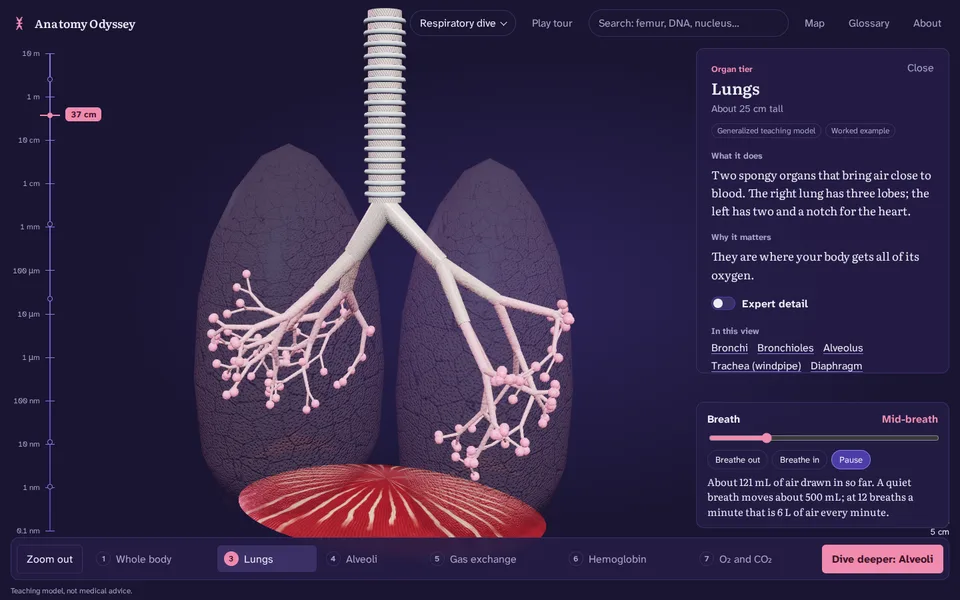
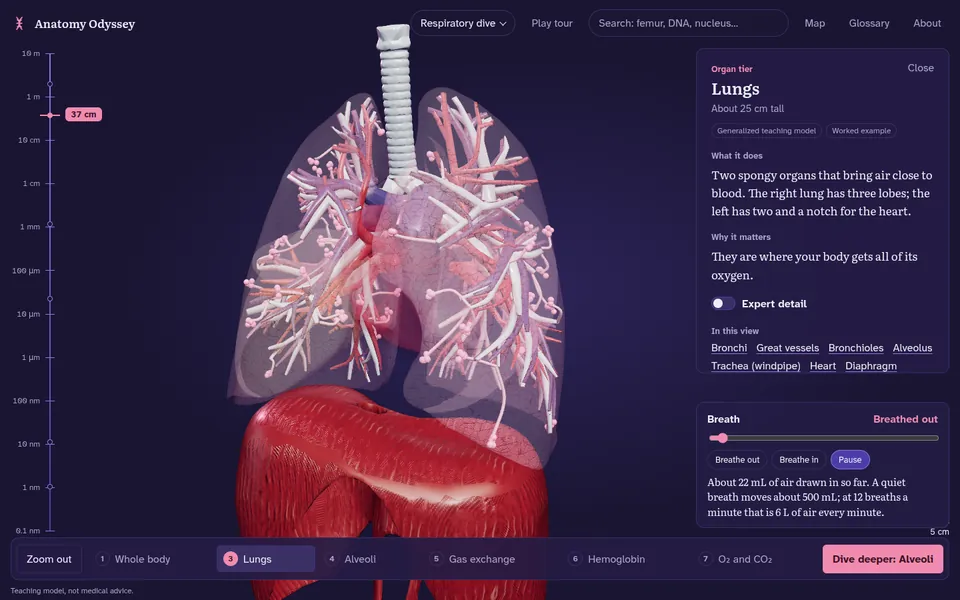
Show the progress in the README: animations, measured organs and a tracker
A new Progress section near the top of the README: animations of the
beating heart, zooming into the measured body, a meal through the
digestive tract and urine through the urinary tract; stills of the
measured body and every real organ close-up; and a progress tracker of
each dive's state with an overall bar. The skeletal, respiratory and
nervous dive animations and the organ screenshots are re-recorded from
the current build. The recording tools gain --step, --live, --zoom,
--clean, --crop and --browser.

diff --git a/tools/record-hero.py b/tools/record-hero.py
@@ -4,13 +4,17 @@
     python3 tools/record-hero.py                          # skeletal dive → docs/media/hero-dive.gif
     python3 tools/record-hero.py --dive circulatory --out docs/media/circulatory-dive.gif
     python3 tools/record-hero.py --dive inflammation --sweep --out docs/media/inflammation.gif
+    python3 tools/record-hero.py --dive circulatory --step heart --live 5 --out docs/media/heartbeat.gif
 
 A dive recording clicks "Dive deeper" through every step. With --sweep, the
-recording stays on the first step and sweeps the scene's control from its
-minimum to its maximum (used for the inflammation module).
+recording stays on the first step (or --step) and sweeps the scene's control
+from its minimum to its maximum (used for the inflammation module and the
+digestive and urinary tracts). With --live SECONDS, it records that step as it
+animates by itself (the heartbeat, blood flow), at the real speed.
 """
 import argparse
 import io
+import time
 
 from PIL import Image
 from playwright.sync_api import sync_playwright
@@ -20,27 +24,63 @@ ap.add_argument("--url", default="http://localhost:4173/")
 ap.add_argument("--dive", default="skeletal")
 ap.add_argument("--out", default="docs/media/hero-dive.gif")
 ap.add_argument("--sweep", action="store_true")
+ap.add_argument("--step", default="", help="start on this step instead of the dive's first")
+ap.add_argument("--live", type=float, default=0, help="record this many seconds of the step animating by itself")
+ap.add_argument("--colors", type=int, default=160)
+ap.add_argument("--clean", action="store_true", help="hide the scene's control box too, leaving just the view")
+ap.add_argument("--zoom", default="", help="zoom in first, at x,y (fractions of the view), by this many wheel clicks: x,y,clicks")
+ap.add_argument("--crop", default="", help="keep only this part of the view: left,top,right,bottom as fractions")
 ap.add_argument("--width", type=int, default=640)
+ap.add_argument("--browser", default=None, help="path to a Chromium executable, if Playwright's own is not installed")
 args = ap.parse_args()
 
 W, H = 1200, 750
-size = (args.width, round(args.width * H / W))
+box = [float(x) for x in args.crop.split(",")] if args.crop else [0, 0, 1, 1]
+box = (round(box[0] * W), round(box[1] * H), round(box[2] * W), round(box[3] * H))
+size = (args.width, round(args.width * (box[3] - box[1]) / (box[2] - box[0])))
 frames = []
+duration = 110  # ms a frame
 
 with sync_playwright() as p:
-    browser = p.chromium.launch(args=["--use-angle=swiftshader", "--enable-unsafe-swiftshader"])
+    browser = p.chromium.launch(executable_path=args.browser, args=["--use-angle=swiftshader", "--enable-unsafe-swiftshader"])
     page = browser.new_page(viewport={"width": W, "height": H}, bypass_csp=True)
-    page.goto(f"{args.url}?dive={args.dive}")
+    page.goto(f"{args.url}?dive={args.dive}" + (f"&step={args.step}" if args.step else ""))
     page.wait_for_function("document.getElementById('app').dataset.ready === 'true'")
     page.evaluate("document.getElementById('intro').hidden = true")
     page.wait_for_timeout(1200)
 
+    zoom_clicks = 0
+    if args.zoom:
+        zx, zy, clicks = (float(v) for v in args.zoom.split(","))
+        page.mouse.move(zx * W, zy * H)
+        zoom_clicks = int(clicks)
+    if args.zoom and not args.live:  # with --live, the zoom is recorded as it happens
+        for _ in range(zoom_clicks):
+            page.mouse.wheel(0, -240)
+            page.wait_for_timeout(250)
+        page.wait_for_timeout(2500)
+    if args.clean:
+        page.add_style_tag(content="#scene-controls { visibility: hidden !important; }")
+
     def grab(n=1):
         for _ in range(n):
-            img = Image.open(io.BytesIO(page.screenshot())).convert("RGB").resize(size, Image.LANCZOS)
+            img = Image.open(io.BytesIO(page.screenshot())).convert("RGB").crop(box).resize(size, Image.LANCZOS)
             frames.append(img)
 
-    if args.sweep:
+    if args.live:
+        page.evaluate("document.getElementById('panel').hidden = true")
+        page.wait_for_timeout(1500)
+        # Software rendering is far slower than real time, so the page's clock is
+        # stopped and stepped one frame at a time: the GIF plays at the real speed.
+        page.clock.install()
+        page.clock.pause_at(time.time() * 1000 + 1000)
+        count = round(args.live * 1000 / duration)
+        for i in range(count):
+            if zoom_clicks and i % max(1, round(0.6 * count / zoom_clicks)) == 0 and i < 0.7 * count:
+                page.mouse.wheel(0, -240)
+            page.clock.run_for(duration)
+            grab()
+    elif args.sweep:
         page.evaluate("document.getElementById('panel').hidden = true")
         steps = 44
         for i in range(steps + 1):
@@ -65,6 +105,6 @@ with sync_playwright() as p:
     browser.close()
 
 # Each frame gets its own adaptive palette so small colored details survive.
-quantized = [f.quantize(colors=160, method=Image.Quantize.MEDIANCUT, dither=Image.Dither.NONE) for f in frames]
-quantized[0].save(args.out, save_all=True, append_images=quantized[1:], duration=110, loop=0, optimize=False)
+quantized = [f.quantize(colors=args.colors, method=Image.Quantize.MEDIANCUT, dither=Image.Dither.NONE) for f in frames]
+quantized[0].save(args.out, save_all=True, append_images=quantized[1:], duration=duration, loop=0, optimize=False)
 print(f"{len(frames)} frames written to {args.out}")

diff --git a/tools/screenshots.py b/tools/screenshots.py
@@ -36,8 +36,8 @@ STEPS = [
     ("t-cells", "antigen-presentation", ""), ("t-cells", "killer-t-cell", ""), ("t-cells", "tcr-mhc", ""),
     ("t-cells", "amino-acids", "&trip=1"),
     ("reflex", "reflex-arc", ""), ("reflex", "spinal-cord", ""), ("reflex", "neuromuscular-junction", ""), ("reflex", "acetylcholine", ""),
-    ("digestive", "body", ""), ("digestive", "small-intestine", ""), ("digestive", "villi", ""), ("digestive", "enterocyte", ""), ("digestive", "glucose", ""),
-    ("urinary", "body", ""), ("urinary", "kidney", ""), ("urinary", "nephron", ""), ("urinary", "filtration-barrier", ""), ("urinary", "urea", ""),
+    ("digestive", "body", ""), ("digestive", "digestive-tract", ""), ("digestive", "small-intestine", ""), ("digestive", "villi", ""), ("digestive", "enterocyte", ""), ("digestive", "glucose", ""),
+    ("urinary", "body", ""), ("urinary", "urinary-tract", ""), ("urinary", "kidney", ""), ("urinary", "nephron", ""), ("urinary", "filtration-barrier", ""), ("urinary", "urea", ""),
     ("endocrine", "body", ""), ("endocrine", "thyroid", ""), ("endocrine", "thyroid-follicles", ""), ("endocrine", "follicle-cell", ""), ("endocrine", "thyroxine", ""),
     ("skin", "body", ""), ("skin", "skin-block", ""), ("skin", "epidermis", ""), ("skin", "sun-and-skin", ""), ("skin", "vitamin-d3", ""),
     ("eye", "body", ""), ("eye", "eye", ""), ("eye", "retina", ""), ("eye", "phototransduction", ""), ("eye", "retinal", ""),
@@ -56,13 +56,14 @@ def main():
     ap.add_argument("--height", type=int, default=900)
     ap.add_argument("--mobile", action="store_true", help="also capture a 390x844 phone view")
     ap.add_argument("--only", default="", help="only capture dives or steps whose id contains this text")
+    ap.add_argument("--browser", default=None, help="path to a Chromium executable, if Playwright's own is not installed")
     args = ap.parse_args()
     out = Path(args.out)
     out.mkdir(parents=True, exist_ok=True)
     errors = []
 
     with sync_playwright() as p:
-        browser = p.chromium.launch(args=["--use-angle=swiftshader", "--enable-unsafe-swiftshader", "--ignore-gpu-blocklist"])
+        browser = p.chromium.launch(executable_path=args.browser, args=["--use-angle=swiftshader", "--enable-unsafe-swiftshader", "--ignore-gpu-blocklist"])
         sizes = [("desktop", args.width, args.height)]
         if args.mobile:
             sizes.append(("phone", 390, 844))

diff --git a/README.md b/README.md
@@ -37,6 +37,75 @@ No accounts, no tracking. Two ways to use it:
 | **Web** | [normansrule.github.io/anatomy-odyssey](https://normansrule.github.io/anatomy-odyssey/) | Any current browser, phones included. Nothing to install. |
 | **Desktop** | [Latest release](https://github.com/Normansrule/anatomy-odyssey/releases/latest) | Windows `.exe`/`.msi`, macOS `.dmg`, Linux `.AppImage`/`.deb`. Not code-signed yet, so the first launch shows a warning. |
 
+## Progress
+
+Version 0.20 (in progress) swaps the drawn body for one **measured from a real person**: 411 meshes from BodyParts3D, with every bone, muscle and organ in its true place. It beats, its blood flows, and the organ close-ups are the real organs cut open. Everything below is from the current build.
+
+<table>
+<tr>
+<td align="center" width="50%"><img src="docs/media/heartbeat.gif" alt="The real heart cut open to its four chambers, beating at 72 a minute, with oxygen-poor blood (blue) and oxygen-rich blood (red) moving through the chambers and valves" width="360" /><br /><sub><b>Heartbeat.</b> The measured heart opened to its four chambers; set the rate from asleep to running.</sub></td>
+<td align="center" width="50%"><img src="docs/media/zoom-anywhere.gif" alt="Zooming in on the chest of the measured body while the guide names the nearest part with a dive and offers to go there" width="400" /><br /><sub><b>Zoom anywhere.</b> Zoom into the measured body; the guide names the nearest dive and takes you there.</sub></td>
+</tr>
+<tr>
+<td align="center"><img src="docs/media/digestive-tract.gif" alt="The real digestive tract from the esophagus to the rectum, a glowing mouthful moving through it while the organ it is in lights up" width="360" /><br /><sub><b>Digestion.</b> One meal through the real gut, with how long each part takes.</sub></td>
+<td align="center"><img src="docs/media/urinary-tract.gif" alt="Both real kidneys, the ureters and the bladder: blood flows into the kidneys, urine runs down the ureters and the bladder fills and empties" width="360" /><br /><sub><b>Urine.</b> From the blood, down the ureters, into the bladder and out.</sub></td>
+</tr>
+</table>
+
+<table>
+<tr>
+<td><img src="docs/screenshots/body.webp" alt="The whole measured body: the skeleton with the organs inside and see-through skin" /><br /><sub>Whole body</sub></td>
+<td><img src="docs/screenshots/skeleton.webp" alt="The measured skeleton with the femur glowing" /><br /><sub>Skeleton</sub></td>
+<td><img src="docs/screenshots/heart.webp" alt="The real heart cut open to its four chambers" /><br /><sub>Heart</sub></td>
+<td><img src="docs/screenshots/brain.webp" alt="The real brain, every fold where it was in that person" /><br /><sub>Brain</sub></td>
+</tr>
+<tr>
+<td><img src="docs/screenshots/lungs.webp" alt="The real lungs, five lobes around the bronchial tree" /><br /><sub>Lungs</sub></td>
+<td><img src="docs/screenshots/liver.webp" alt="The real liver, see-through, with its veins and bile ducts and a lobule magnifier" /><br /><sub>Liver</sub></td>
+<td><img src="docs/screenshots/pancreas.webp" alt="The real pancreas, see-through, with its duct, islets and the spleen" /><br /><sub>Pancreas</sub></td>
+<td><img src="docs/screenshots/kidney.webp" alt="The real left kidney cut in half, the drawn inside fitted to its outline" /><br /><sub>Kidney</sub></td>
+</tr>
+<tr>
+<td><img src="docs/screenshots/femur.webp" alt="The real femur cut lengthwise: compact bone, marrow and spongy bone" /><br /><sub>Femur</sub></td>
+<td><img src="docs/screenshots/digestive-tract.webp" alt="The real digestive tract with the liver, gallbladder and pancreas" /><br /><sub>Digestive tract</sub></td>
+<td><img src="docs/screenshots/urinary-tract.webp" alt="The real urinary tract: kidneys, ureters and bladder with the vessels behind" /><br /><sub>Urinary tract</sub></td>
+<td></td>
+</tr>
+</table>
+
+### Progress tracker
+
+**Real organs at the organ tier: 8 of 15 dives**
+
+`████████████████░░░░░░░░░░░░░░` 53%
+
+| Dive | Whole body | Organ tier | Moving | State |
+|---|---|---|---|---|
+| 🦴 Skeletal | measured skeleton | measured femur, cut open | | ✅ Done |
+| ❤ Circulatory | measured vessels | measured heart, four chambers | heartbeat, blood flow, heart rate | ✅ Done |
+| 🫁 Respiratory | measured | measured lungs and bronchial tree | breathing | ✅ Done |
+| 🧠 Nervous | measured | measured brain, lobes and inside | | ✅ Done |
+| 🍽 Digestive | measured | measured tract, esophagus to rectum | a meal moving through | ✅ Done |
+| 💧 Urinary | measured | measured kidneys, ureters, bladder; kidney cut open | urine flow, bladder filling | ✅ Done |
+| 🍬 Pancreas | measured | measured pancreas with duct and islets | | ✅ Done |
+| 🟤 Liver | measured | measured liver with veins and bile ducts | blood and bile flow | ✅ Done |
+| 🛡 Immune | measured, with a cut on the forearm | lymph node drawn | infection to the armpit nodes | 🟡 Body done, close-up drawn |
+| 💪 Muscular | measured muscles | biceps drawn, cut across | | 🟡 Next candidate |
+| ☀ Skin | measured skin | skin block drawn | heat and cold | 🟡 Drawn close-up |
+| 👃 Smell | measured | nasal cavity drawn | sniff | 🟡 Drawn close-up |
+| 🦋 Endocrine | measured | thyroid drawn | | ⬜ The atlas has no thyroid |
+| 👁 Eye | measured | eye drawn | light focusing | ⬜ Atlas eye too coarse |
+| 👂 Ear | measured | ear drawn | sound | ⬜ Atlas ear outer only |
+
+| Feature | State |
+|---|---|
+| Body measured from a real one (411 meshes), every bone, muscle and organ | ✅ Done |
+| Zoom in anywhere, with a guide to the nearest dive | ✅ Done |
+| Beating heart and blood flow timed to the beat | ✅ Done |
+| Immune response on the body: cut, infection, lymph nodes | ✅ Done |
+| Web app on GitHub Pages and desktop app (Windows, macOS, Linux) | ✅ Built |
+| Code-signed desktop releases | ⬜ Later |
+
 ## What you can explore
 
 ### Fifteen dives
@@ -49,8 +118,8 @@ No accounts, no tracking. Two ways to use it:
 | 🛡 **Immune** | body fighting an infection, from a cut to cleared → lymph node → follicle → plasma cell → antibody | amino acids |
 | 🧠 **Nervous** | body → brain → cortex → neuron → synapse | glutamate |
 | 🫁 **Respiratory** | body → lungs → alveoli → air–blood barrier → hemoglobin | O₂ and CO₂ |
-| 🍽 **Digestive** | body → small intestine → villi → absorbing cell | glucose |
-| 💧 **Urinary** | body → kidney → nephron → the filtration barrier | urea |
+| 🍽 **Digestive** | body → digestive tract → small intestine → villi → absorbing cell | glucose |
+| 💧 **Urinary** | body → urinary tract → kidney → nephron → the filtration barrier | urea |
 | 🦋 **Endocrine** | body → thyroid gland → follicles → hormone-making cell | thyroxine (T4) and T3 |
 | ☀ **Skin** | body → a block of skin → the epidermis → a skin cell in sunlight | vitamin D3 |
 | 👁 **Eye** | body → eye → retina → light becoming a signal in a rod | retinal (11-cis and all-trans) |
@@ -79,7 +148,7 @@ Side trips branch into a **shared library** of building blocks (nucleus, nucleos
 <tr>
 <td><img src="docs/screenshots/femur.webp" alt="A femur cut open: compact bone, yellow marrow and spongy bone at the ends, in natural colors" /></td>
 <td><img src="docs/screenshots/heart.webp" alt="The heart opened from the front, showing its four chambers, in natural colors" /></td>
-<td><img src="docs/screenshots/brain.webp" alt="The brain with one hemisphere cut open to show gray and white matter, in natural colors" /></td>
+<td><img src="docs/screenshots/brain.webp" alt="The real brain from the side, its folds measured, with controls to color the lobes or see inside" /></td>
 </tr>
 <tr>
 <td><img src="docs/screenshots/cortex.webp" alt="A block of cerebral cortex with six layers and pyramidal neurons" /></td>
@@ -132,7 +201,7 @@ Side trips branch into a **shared library** of building blocks (nucleus, nucleos
 <td><img src="docs/screenshots/beta-cell.webp" alt="A beta cell beside a capillary, cut open: nucleus, mitochondria and insulin granules, with glucose transporters, potassium and calcium channels in its membrane" /></td>
 </tr>
 <tr>
-<td><img src="docs/screenshots/liver.webp" alt="The liver from the front, its right lobe cut to show hexagonal lobules, with the gallbladder, bile ducts, portal vein, hepatic artery and inferior vena cava" /></td>
+<td><img src="docs/screenshots/liver.webp" alt="The real liver from the front, see-through, with a magnifier on its hexagonal lobules, the gallbladder, bile ducts and inferior vena cava" /></td>
 <td><img src="docs/screenshots/lobule.webp" alt="A hepatic lobule: plates of liver cells radiating from the central vein, with portal triads at the corners and blood flowing inward" /></td>
 <td><img src="docs/screenshots/hepatocyte.webp" alt="Two liver cells beside a sinusoid with a Kupffer cell, bilirubin riding on albumin, and a bile canaliculus between the cells" /></td>
 </tr>
@@ -193,6 +262,8 @@ npm test               # 479 unit tests
 npm run build          # production build in dist/ (what GitHub Pages serves)
 npm run build:preview  # one self-contained HTML file in dist-preview/
 npm run molecules      # regenerate molecule geometry (needs: pip install rdkit)
+python3 tools/record-hero.py --dive circulatory --step heart --live 3 --crop 0.08,0.1,0.7,0.9 --width 440 --out docs/media/heartbeat.gif
+                       # record a README animation (see the file for the other modes; needs Playwright)
 python3 tools/build_body_meshes.py --fetch && python3 tools/build_body_meshes.py && npm run manifest
                        # rebuild the body anatomy from BodyParts3D (needs: pip install numpy fast-simplification)
 npm run a11y           # accessibility audit against a running preview (needs Playwright)
@@ -272,14 +343,15 @@ docs/          state of the model, equations, security model, publishing
 - [x] Desktop app, device check, accessibility audit
 - [x] Realistic tissue surfaces with natural and stain looks
 - [x] The spinal cord, through the knee-jerk reflex
-- [ ] Real anatomical meshes (Z-Anatomy, CC BY-SA) for the organ tiers
+- [x] A body measured from a real one (BodyParts3D, CC BY-SA), and real organs for the heart, brain, lungs, liver, pancreas, kidney, femur and the digestive and urinary tracts
+- [ ] Measured thyroid, eye and ear
 - [ ] Real atomic structures from the Protein Data Bank for the large molecules
 - [ ] Code-signed desktop releases
 
 ## License
 
 - **Code**: [MIT](LICENSE).
-- **Anatomy assets** in `assets/anatomy/` (when added): CC BY-SA 4.0, as Z-Anatomy and BodyParts3D require. ShareAlike covers those files only.
+- **Anatomy assets** in `assets/anatomy/`: derived from BodyParts3D, CC BY-SA 2.1 Japan (see [assets/CREDITS.md](assets/CREDITS.md)). ShareAlike covers those files only.
 - **Molecular assets**: each file's own license, listed in [assets/CREDITS.md](assets/CREDITS.md).
 - **Fonts**: Atkinson Hyperlegible Next and Literata, SIL Open Font License 1.1.
 - Tissue textures are generated in code and covered by the MIT license.

diff --git a/CHANGELOG.md b/CHANGELOG.md
@@ -12,6 +12,7 @@
 - **The real thigh bone, cut open.** The femur step now shows the measured left femur, cut lengthwise through its shaft and head so the cut face has its real outline: head, neck, trochanter, shaft and condyles, with cartilage over the hip and knee ends. On that face are the compact wall (about 6 mm thick along the shaft, thin over the ends), yellow marrow in the shaft and spongy bone with red marrow in the ends.
 - **Follow a meal through the real digestive tract.** The digestive dive has a new step between the whole body and the small intestine: the measured esophagus, stomach, duodenum, small and large intestines, with the liver, gallbladder and pancreas. A stage control follows one mouthful along the route traced through them by `tools/build_body_meshes.py` (the atlas packs the jejunum and ileum as two masses, so the path through their loops is drawn), with how long each part takes; the organ it is in glows while the others fade.
 - **Follow urine through the real urinary tract.** The urinary dive has a new step between the whole body and the kidney: both measured kidneys, the ureters with their renal pelves, the bladder, the adrenal glands and the renal arteries and veins, with the aorta, vena cava and pelvis behind. The routes are read from the meshes (the ureters' center lines from 1 cm slices); a stage control follows blood in along the renal arteries, urine gathering in each pelvis, down the ureters, and into the bladder, whose urine rises as it fills and drains as it empties through a drawn urethra (the atlas has none).
+- **The README shows the progress.** A new Progress section near the top: animations of the beating heart, zooming into the body, a meal through the digestive tract and urine through the urinary tract, stills of the measured body and every real organ close-up, and a progress tracker: each dive's state (measured, drawn, next) with an overall bar, and the main features. The skeletal, respiratory and nervous dive animations and the organ screenshots are re-recorded from the measured body. `tools/record-hero.py` gains `--step`, `--live` and `--zoom` (records a step animating by itself, stepping the page's clock so software rendering still plays at real speed), `--clean` and `--crop`; it and `tools/screenshots.py` take `--browser` for a Chromium that Playwright did not install, and the screenshot list includes the two new tract steps.
 - **Zoom in anywhere.** Scroll or pinch zooms toward whatever is under the pointer. Zoom far enough into the whole body and a guide names the nearest part that has a dive ("Keep zooming in to reach: the heart"), draws the view toward it and then carries you in; a "Go" button does it in one tap. Zooming out far enough goes back a step.
 - Every dive now starts from the measured position of its organ, and the model's height (1.64 m) is the measured one.
 - 1 new reference (Mitsuhashi and others 2009, the BodyParts3D paper).
